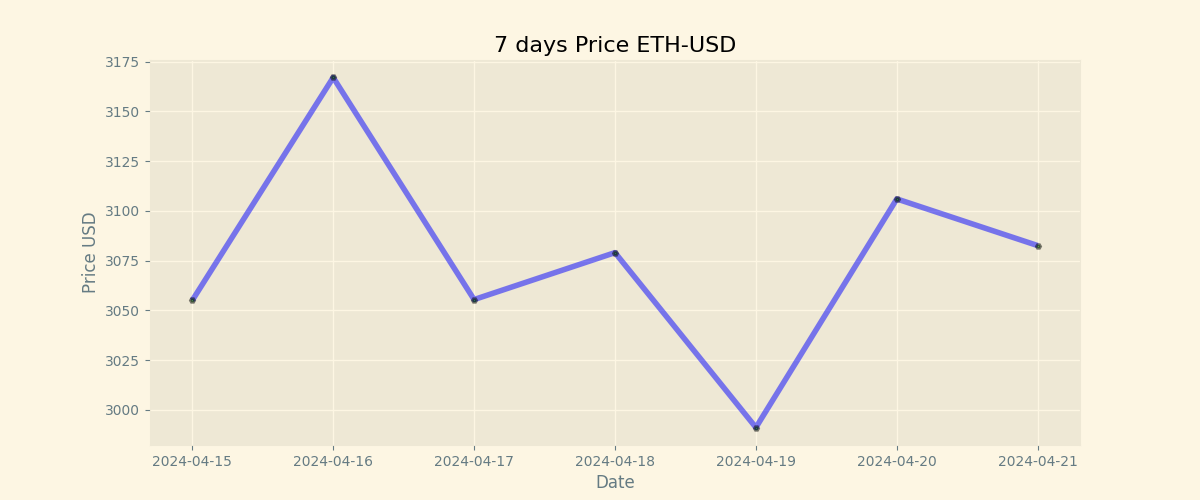
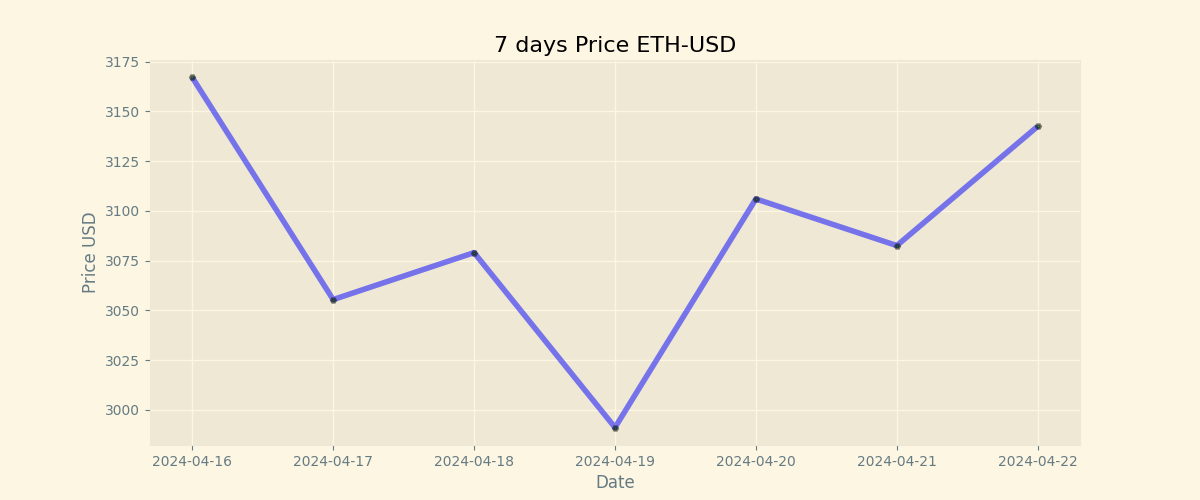
Duty Updates 2024-04-22

diff --git a/README.md b/README.md
@@ -9,8 +9,8 @@
 
 | Currency | Price           |
 | -------- | --------------- |
-| **BTC**  | **$ 64091.17** |
-| **ETH**  | **$ 3082.54** |
+| **BTC**  | **$ 64725.15** |
+| **ETH**  | **$ 3142.51** |
 
 ## BTC chart
 
